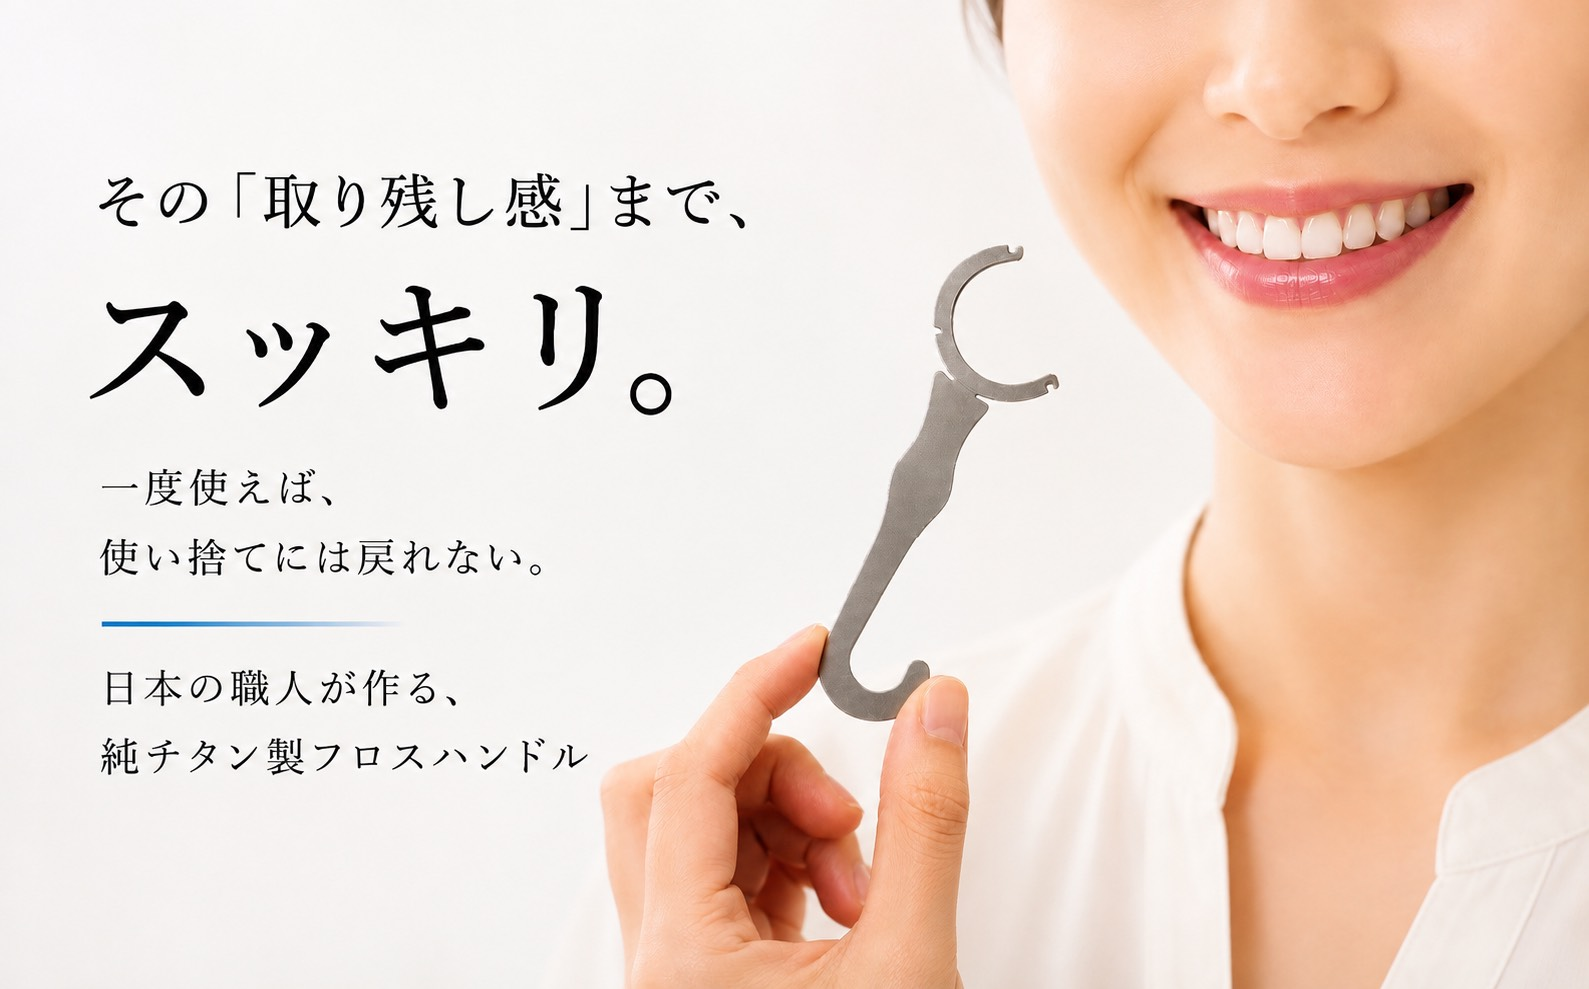
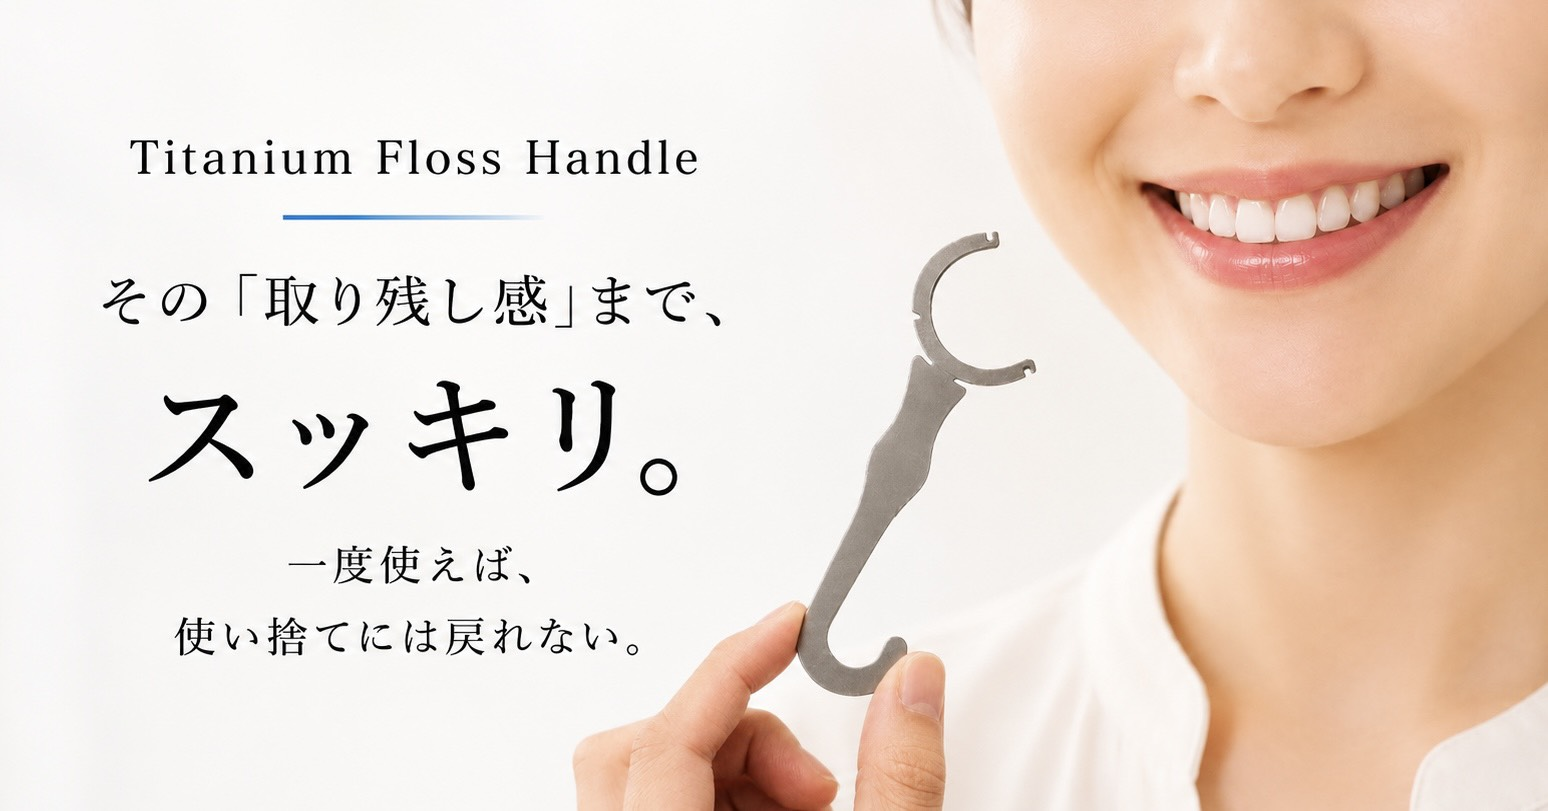
Replace first image and add fourth opening image

diff --git a/app/page.tsx b/app/page.tsx
@@ -16,6 +16,10 @@ export default function Home() {
           src={`${basePath}/intro-new-03.jpg`}
           alt="薄さわずか1mm。奥歯まで引っかかりにくく、スッと届く"
         />
+        <img
+          src={`${basePath}/intro-new-04.jpg`}
+          alt="その取り残し感までスッキリ。一度使えば使い捨てには戻れない、日本の職人が作る純チタン製フロスハンドル"
+        />
         <section className="lineRegistration" id="line-registration">
           <p className="lineLead">初回のご案内は、LINE先行。</p>
           <h2>お得な先行情報を<br />いち早くお届けします。</h2>
